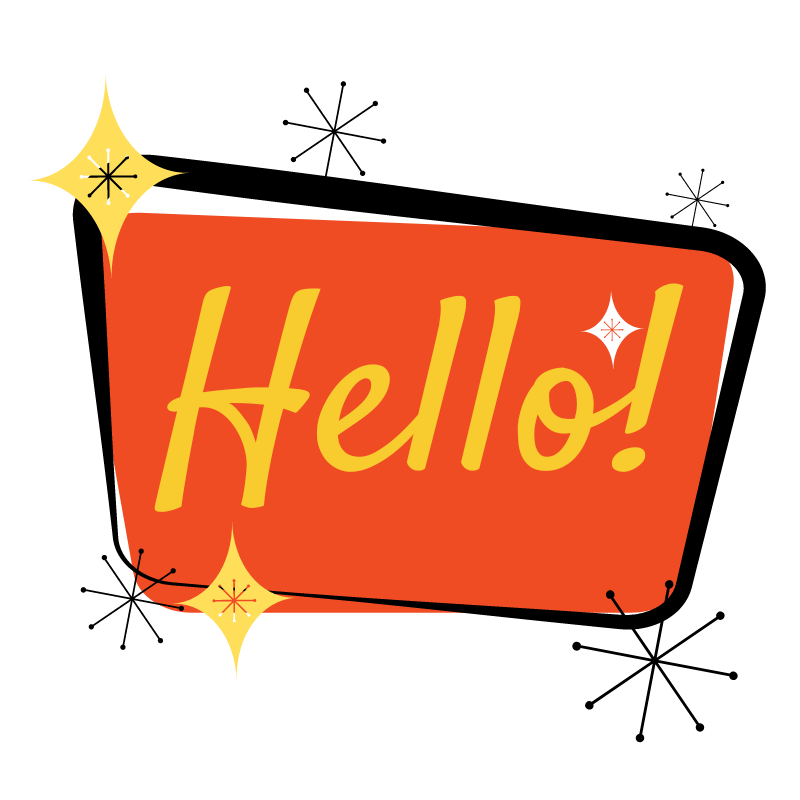
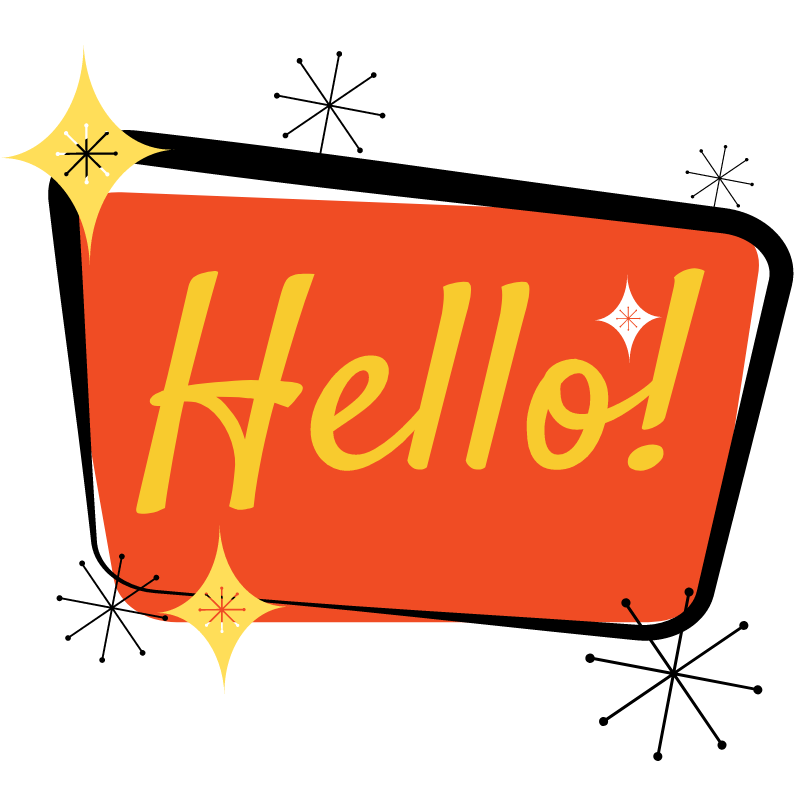
added new backgrounds and changed hello sign

Changed region(s): [[0.0, 0.0625, 1.0, 0.9688], [0.4375, 0.5312, 0.5312, 0.5938], [0.875, 0.9062, 0.9062, 0.9375]]

diff --git a/src/components/About/About.css b/src/components/About/About.css
@@ -1,36 +1,35 @@
-#about-container {
+#about-main-container {
   height: 100vh;
   display: flex;
 }
 
-#about-me-container {
+.about-container {
   width: 50%;
   height: 100%;
-  background-color: #f8cb2e;
   display: flex;
   justify-content: center;
   align-items: center;
 }
 
-#graphics-container {
-  width: 50%;
+#about-background {
+  width: 100%;
   height: 100%;
-  display: flex;
-  justify-content: center;
-  align-items: center;
+  opacity: 0.3;
 }
 
 #helloSign {
-  width: 90%;
   height: 90%;
+  height: 90%;
+  position: absolute;
+  z-index: 1;
 }
 
 @media only screen and (max-width: 600px) {
-  #about-me-container {
+  #right-container {
     width: 100%;
   }
 
-  #graphics-container {
+  #left-container {
     display: none;
   }
 }

diff --git a/src/components/About/About.tsx b/src/components/About/About.tsx
@@ -1,12 +1,16 @@
 import "./About.css";
-import helloSign from "../../../images/graphics/helloSign1.png";
+import helloSign from "../../../images/graphics/helloSign2.png";
+import background from "../../../images/graphics/background2.jpg";
 
 const About = () => {
   return (
-    <div id="about-container">
-      <div id="about-me-container"></div>
-      <div id="graphics-container">
+    <div id="about-main-container">
+      <div className="about-container" id="left-container">
         <img src={helloSign} id="helloSign" />
+        <img src={background} id="about-background" />
+      </div>
+      <div className="about-container" id="right-container">
+        <img src={background} id="about-background" />
       </div>
     </div>
   );
